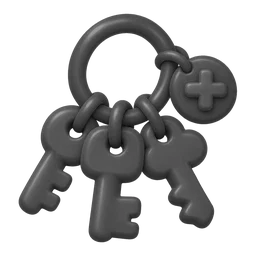
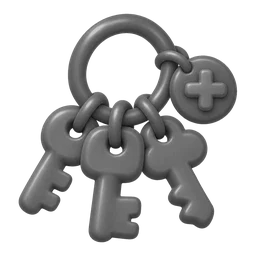
feat(activity): graphite key and rename marks, say Renamed Account

diff --git a/apps/mobile/utils/__tests__/activity.test.ts b/apps/mobile/utils/__tests__/activity.test.ts
@@ -670,8 +670,8 @@ describe("mapAccountEventToActivityEntry", () => {
       "SELF"
     );
 
-    expect(statusLabel(named)).toBe("Named Wallet");
-    expect(statusLabel(renamed)).toBe("Renamed Wallet");
+    expect(statusLabel(named)).toBe("Named Account");
+    expect(statusLabel(renamed)).toBe("Renamed Account");
   });
 
   it("dates the entry when it happened", () => {

diff --git a/apps/mobile/components/ui/organisms/ActivityItem.tsx b/apps/mobile/components/ui/organisms/ActivityItem.tsx
@@ -279,7 +279,7 @@ function AwaitingPaymentItem({
 const EVENT_ILLUSTRATIONS = {
   added: require("@/assets/illustrations/recovery-key-added.webp"),
   removed: require("@/assets/illustrations/recovery-key-removed.webp"),
-  renamed: require("@/assets/illustrations/wallet-renamed.webp"),
+  renamed: require("@/assets/illustrations/account-renamed.webp"),
 };
 
 /**

diff --git a/apps/mobile/utils/activity.ts b/apps/mobile/utils/activity.ts
@@ -320,7 +320,7 @@ function describeEvent(event: AccountEventRow): {
       return { label: "Removed Recovery Key", subject };
     case "wallet_renamed":
       return {
-        label: event.previousSubject ? "Renamed Wallet" : "Named Wallet",
+        label: event.previousSubject ? "Renamed Account" : "Named Account",
         subject,
       };
   }

diff --git a/apps/mobile/assets/illustrations/source/README.md b/apps/mobile/assets/illustrations/source/README.md
@@ -37,8 +37,8 @@ palette, so they read at icon size. Saved at 256px. Activity shows them bare,
 with no disc behind them, and the event is part of the object rather than a
 corner badge.
 
-| File                   | Used on                | Subject                                                                                                                                                                                                                                                                    |
-| ---------------------- | ---------------------- | -------------------------------------------------------------------------------------------------------------------------------------------------------------------------------------------------------------------------------------------------------------------------- |
-| `recovery-key-added`   | Added Recovery Key     | Three chunky keys of slightly different shapes on one thick ring, with a round charm on the ring carrying an embossed plus. Rendered violet, then turned glossy charcoal so it pairs with the grey removed mark: dark means the key is there, light grey means it is gone. |
-| `recovery-key-removed` | Removed Recovery Key   | The same render with the plus swapped for an embossed cross, then desaturated to neutral grey so a removed key reads as gone.                                                                                                                                              |
-| `wallet-renamed`       | Renamed / Named Wallet | A chunky bifold wallet with a blank luggage-style name tag on a loop of cord. Blue `#0080FF`, the tag a lighter tint.                                                                                                                                                      |
+| File                   | Used on                 | Subject                                                                                                                                                                                                                                                                                                                                               |
+| ---------------------- | ----------------------- | ----------------------------------------------------------------------------------------------------------------------------------------------------------------------------------------------------------------------------------------------------------------------------------------------------------------------------------------------------- |
+| `recovery-key-added`   | Added Recovery Key      | Three chunky keys of slightly different shapes on one thick ring, with a round charm on the ring carrying an embossed plus. Rendered violet, then turned glossy graphite so it pairs with the grey removed mark: dark means the key is there, light grey means it is gone. Graphite rather than near-black so the plus on the charm survives at 40pt. |
+| `recovery-key-removed` | Removed Recovery Key    | The same render with the plus swapped for an embossed cross, then desaturated to neutral grey so a removed key reads as gone.                                                                                                                                                                                                                         |
+| `account-renamed`      | Renamed / Named Account | A chunky blank name tag with a pencil resting on it mid-stroke and a short written squiggle, so it reads as "gave it a new name". Rendered in soft blue, then turned glossy graphite to sit with the key marks; lighter than charcoal so the pencil and its squiggle stay distinct at 40pt.                                                           |
